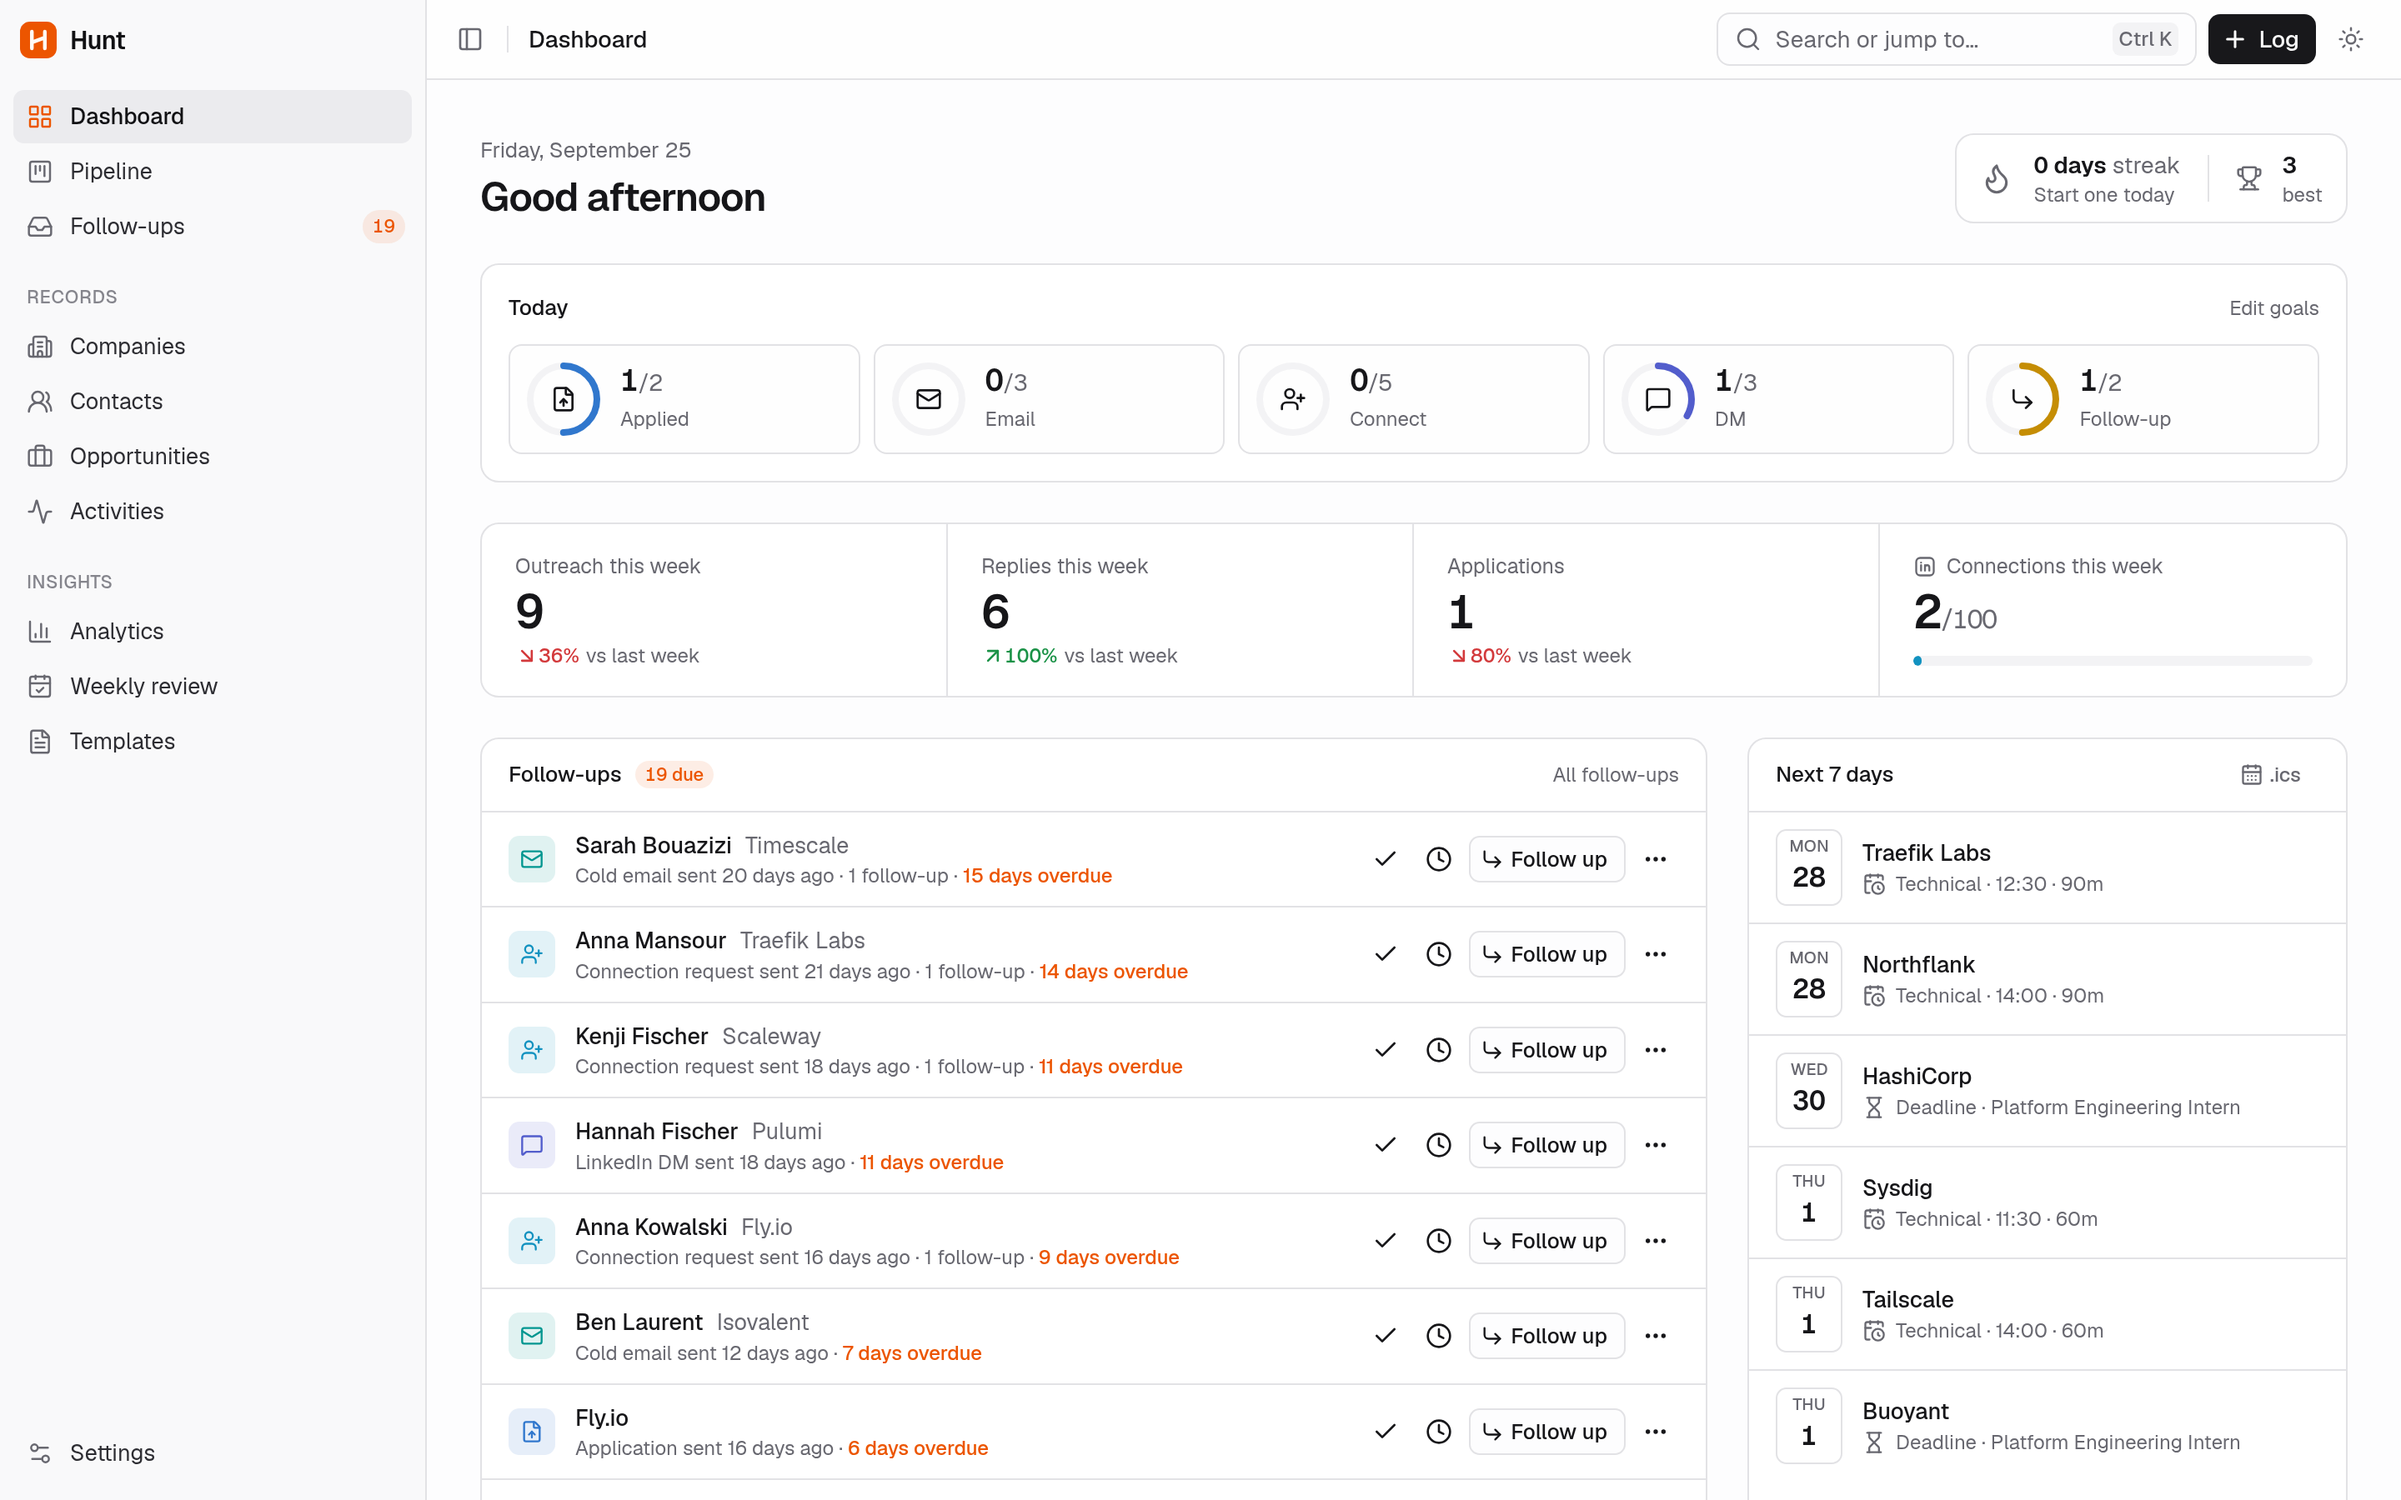
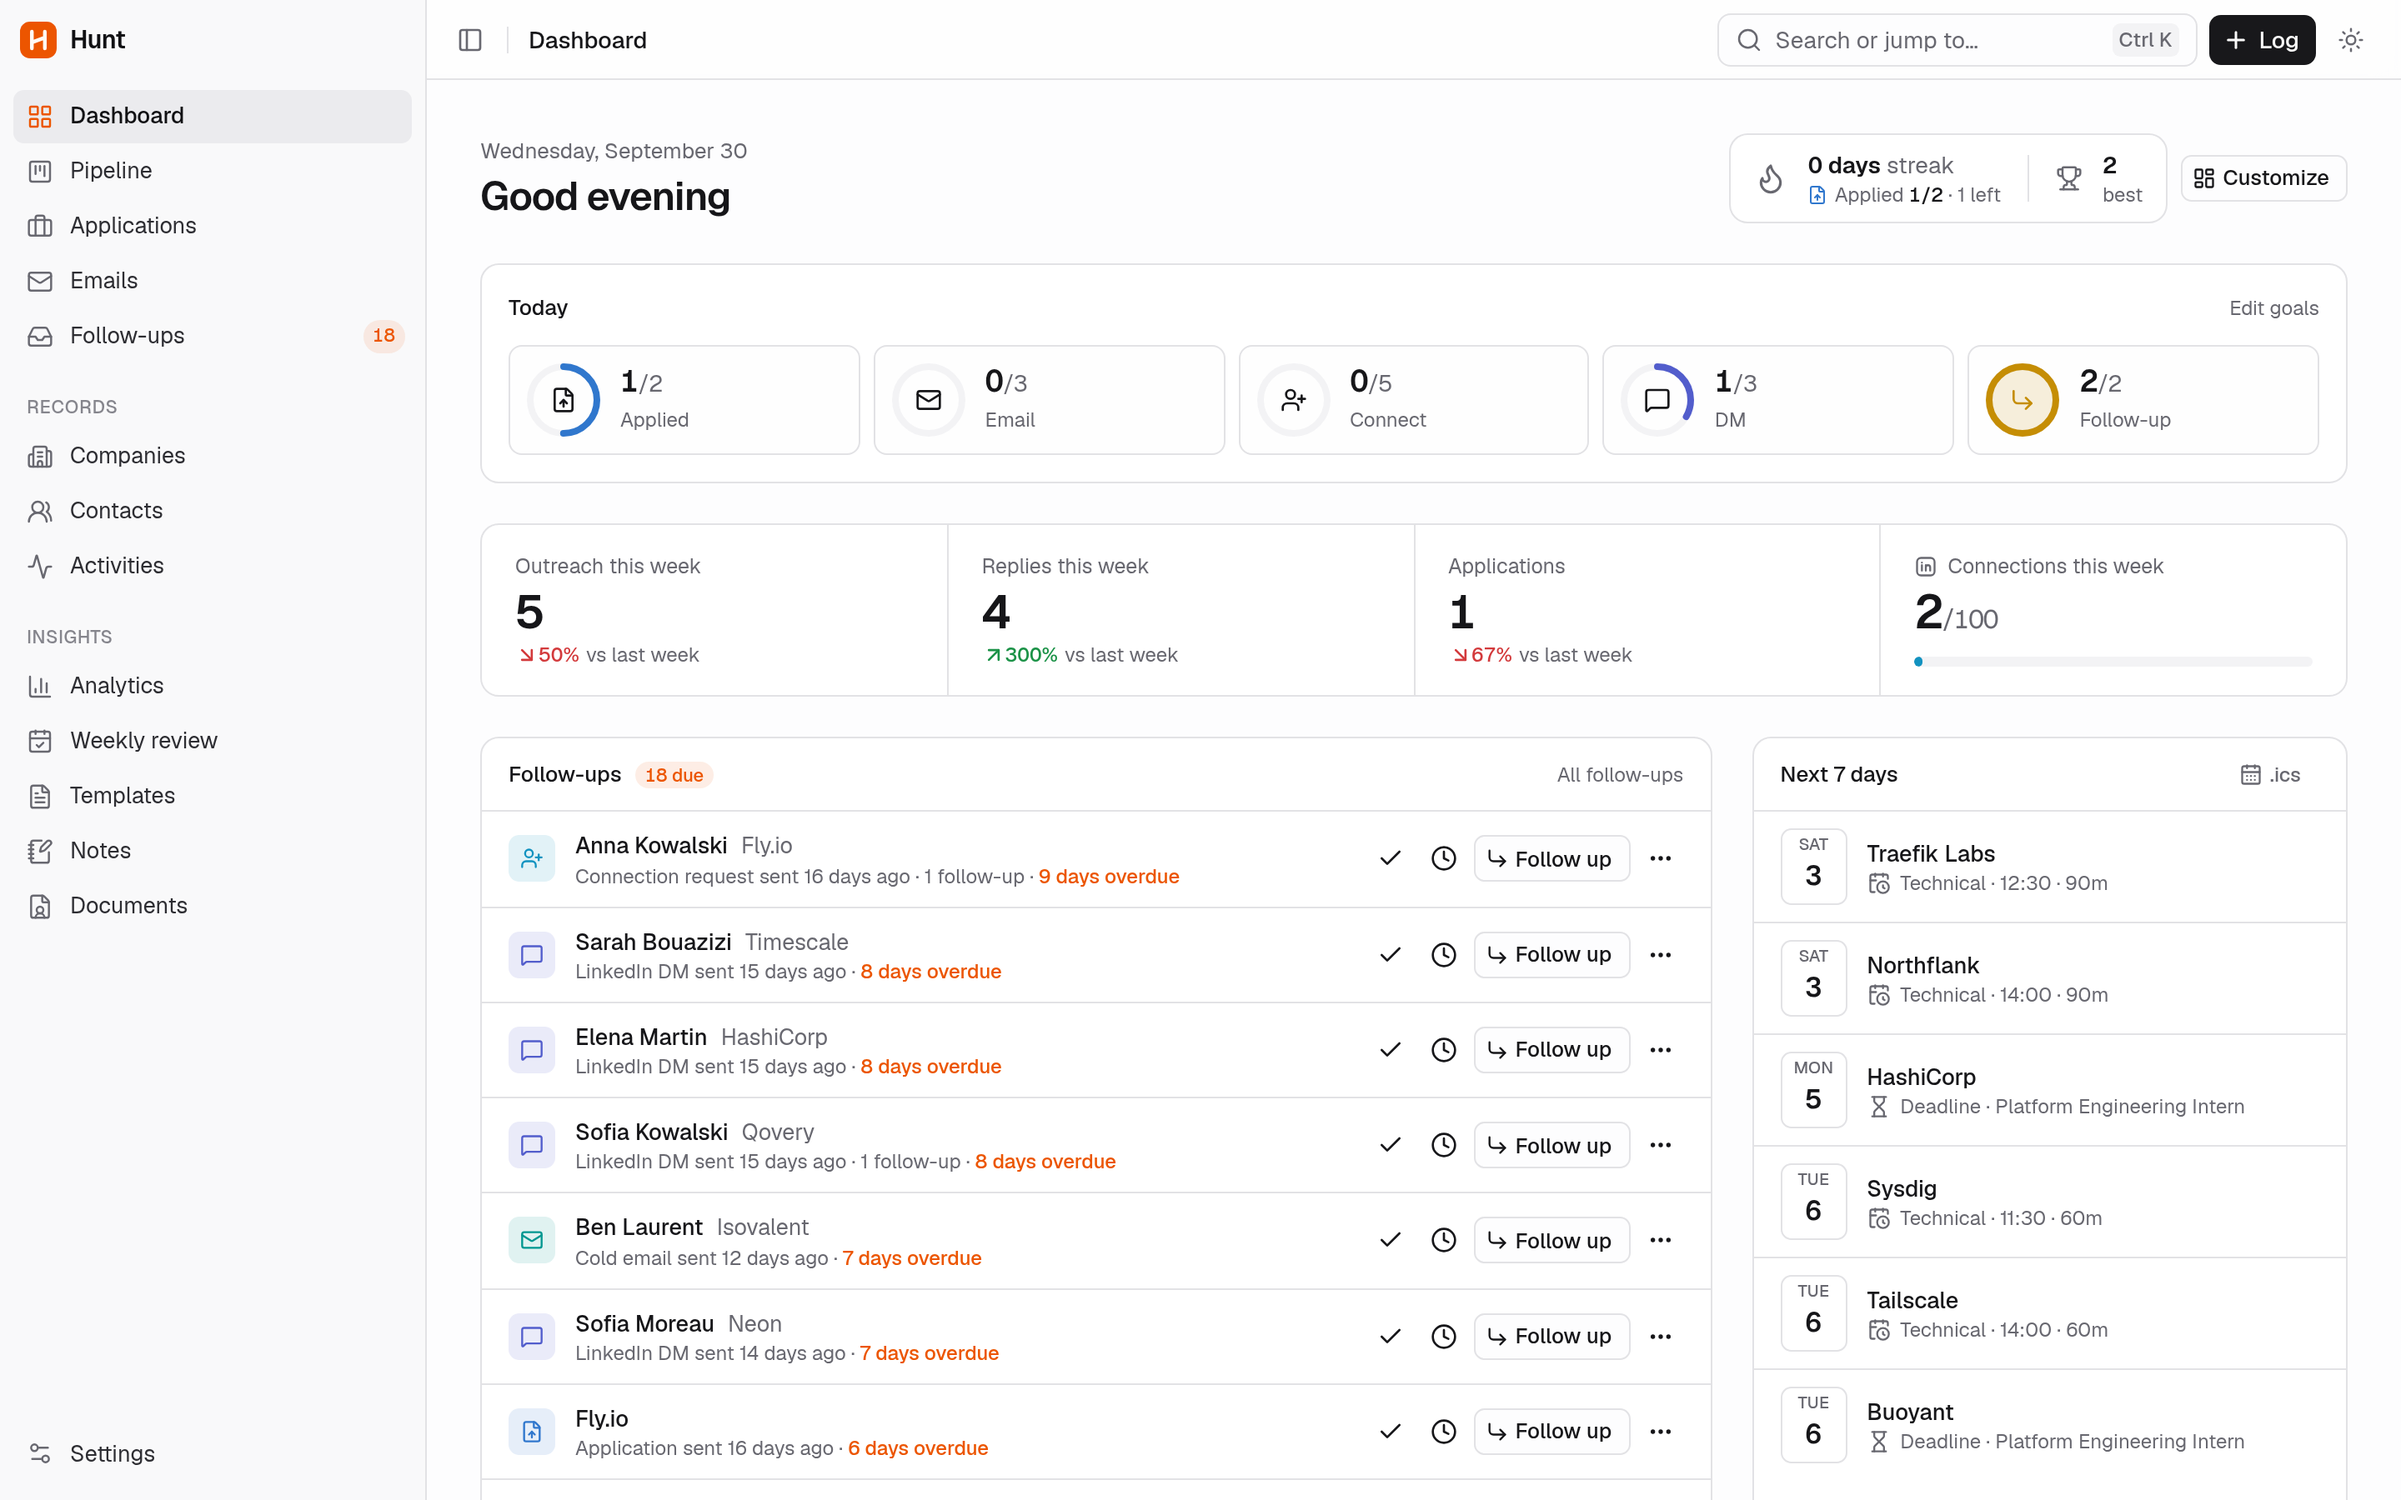
docs(readme): new screenshots and recent features
Retake every screenshot and add Applications, Emails, Notes, Documents,
cover letters, dashboard customization and themes. The features table
now covers the customizable dashboard, the Applications and Emails
pages, company logos and update notices.

diff --git a/README.md b/README.md
@@ -41,9 +41,11 @@ Hunt is built for a single person looking for work:
 
 | | |
 | --- | --- |
-| **Dashboard** | Daily goal rings, streaks, an activity heatmap, today's follow-ups and upcoming interviews |
+| **Dashboard** | Daily goal rings, streaks with their own targets, an activity heatmap, today's follow-ups and upcoming interviews |
+| **Customizable dashboard** | Drag blocks to reorder them, hide the ones you don't use, and give each its own title, width and options (which goals to show, how many rows, the look-ahead range, the heatmap period). A Pinned notes block is available too |
 | **Pipeline** | Kanban board (Applied → Interview → Offer → Rejected) with drag and drop that follows the status rules and records history |
-| **Companies, contacts, opportunities** | Sortable, filterable tables with saved views, detail pages and a full activity timeline |
+| **Applications and emails** | Dedicated pages for every role you applied to and every email you sent, with Today / This week / This month tabs, status changes right from the table, and "Log another" that keeps the company and template so you can apply to several roles in a row |
+| **Companies, contacts, opportunities** | Sortable, filterable tables with saved views, detail pages, a full activity timeline, and company logos fetched from each company's website |
 | **Quick log and command palette** | Keyboard-first logging, plus `Ctrl K` search across everything, including notes and job descriptions |
 | **Follow-up engine** | Per-type reminder rules, follow-ups linked to the original message, snoozing, and ghosting after a configurable number of days |
 | **Analytics** | Outreach volume, reply rate by channel and by template, funnel conversion, stage durations and time to first reply |
@@ -55,18 +57,31 @@ Hunt is built for a single person looking for work:
 | **Calendar feed** | An `.ics` feed of interviews, deadlines and follow-ups to subscribe to from any calendar app |
 | **Import and export** | CSV import and export for tables, full JSON backup and restore, raw database download, and automatic daily snapshots |
 | **Runs where you are** | Desktop app (Electron), a PWA on your phone over your LAN, or a plain browser tab |
-| **Appearance** | Light, dark or system with no flash on load, color themes, text size, and an optional background image with blur and dim |
+| **Appearance** | Light, dark or system with no flash on load, color themes (Tokyo Night, Catppuccin, Rosé Pine, Nord, Gruvbox), text size, and an optional background image with blur, dim and card opacity |
+| **Update notices** | Hunt tells you when a new release is out, with the release notes and the commands to update |
 
 ## Screenshots
 
 <table>
   <tr>
-    <td width="50%"><img src="docs/screenshots/pipeline.png" alt="Kanban pipeline with Applied, Interview, Offer and Rejected columns" /><p align="center"><b>Pipeline</b>: drag cards between stages</p></td>
-    <td width="50%"><img src="docs/screenshots/analytics.png" alt="Analytics: outreach, reply rate, activity per day and reply rate by channel, source and tier" /><p align="center"><b>Analytics</b>: see what's actually working</p></td>
+    <td width="50%"><img src="docs/screenshots/dashboard-customize.png" alt="Dashboard in customize mode, with the settings of the Follow-ups block open" /><p align="center"><b>Customize</b>: reorder, hide and configure every block</p></td>
+    <td width="50%"><img src="docs/screenshots/pipeline.png" alt="Kanban pipeline with Applied, Interview, Offer and Rejected columns and company logos" /><p align="center"><b>Pipeline</b>: drag cards between stages</p></td>
+  </tr>
+  <tr>
+    <td width="50%"><img src="docs/screenshots/applications.png" alt="Applications table with time filters, status, time in stage, next step, tier, source and country" /><p align="center"><b>Applications</b>: filter, sort and save views</p></td>
+    <td width="50%"><img src="docs/screenshots/emails.png" alt="Emails table listing cold emails, follow-ups and replies with their outcome" /><p align="center"><b>Emails</b>: every email sent and every reply</p></td>
   </tr>
   <tr>
     <td width="50%"><img src="docs/screenshots/follow-ups.png" alt="Follow-ups inbox listing overdue follow-ups with quick actions" /><p align="center"><b>Follow-ups</b>: everything that's due, in one inbox</p></td>
-    <td width="50%"><img src="docs/screenshots/opportunities.png" alt="Opportunities table with status, time in stage, next step, tier and source" /><p align="center"><b>Opportunities</b>: filter, sort and save views</p></td>
+    <td width="50%"><img src="docs/screenshots/analytics.png" alt="Analytics: outreach, reply rate, activity per day and reply rate by channel, source and tier" /><p align="center"><b>Analytics</b>: see what's actually working</p></td>
+  </tr>
+  <tr>
+    <td width="50%"><img src="docs/screenshots/notes.png" alt="Notes page with a markdown note in split view: source on the left, preview with checklists on the right" /><p align="center"><b>Notes</b>: markdown with live preview and checklists</p></td>
+    <td width="50%"><img src="docs/screenshots/documents.png" alt="Documents page previewing a PDF CV in the built-in viewer" /><p align="center"><b>Documents</b>: every CV and cover letter, with previews</p></td>
+  </tr>
+  <tr>
+    <td width="50%"><img src="docs/screenshots/cover-letter.png" alt="A cover letter written in Hunt, with a Copy text button" /><p align="center"><b>Cover letters</b>: write them in the app, copy into forms</p></td>
+    <td width="50%"><img src="docs/screenshots/themes.png" alt="Dashboard in the Catppuccin theme over a custom background image" /><p align="center"><b>Themes</b>: color themes and a background image of your own</p></td>
   </tr>
 </table>
 
@@ -169,7 +184,7 @@ In the notes editor, `Ctrl B` / `Ctrl I` make text bold or italic, `Enter` conti
 | --- | --- |
 | `./data/hunt.db` | The database (SQLite, WAL mode) |
 | `./data/backups/` | A snapshot on the first request each day (the last 14 are kept) |
-| `./data/uploads/` | Uploaded CVs, cover letters and background images |
+| `./data/uploads/` | Uploaded CVs, cover letters, background images and company logos |
 
 `./data` is gitignored. Set `HUNT_DATA_DIR` to keep it somewhere else.
 
@@ -190,12 +205,13 @@ app/                 routes (App Router); (app)/ holds everything behind the sid
 components/ui/       shadcn/ui primitives
 components/layout/   sidebar, header, providers
 components/shared/   app-level building blocks (badges, avatars, page shell)
-components/…         forms, data-table, detail, dashboard, pipeline, analytics, settings
+components/…         forms, data-table, detail, dashboard, pipeline, analytics, notes, documents, settings
 db/                  schema, client, migrations, seed, backups
 electron/            desktop shell (main process)
 lib/domain.ts        enums, status transitions, default goals and rules: the single source of truth
+lib/dashboard-layout.ts  dashboard blocks, their options and layout repair
 lib/meta.ts          labels, icons and colors per status and activity type
-lib/services/        business rules, analytics, dashboard, review, backup (pure functions that take a db)
+lib/services/        business rules, analytics, dashboard, review, backup, logos, updates (pure functions that take a db)
 lib/actions/         server actions: validate with Zod, call a service, revalidate
 lib/queries/         server-only reads for pages
 scripts/             desktop install script
